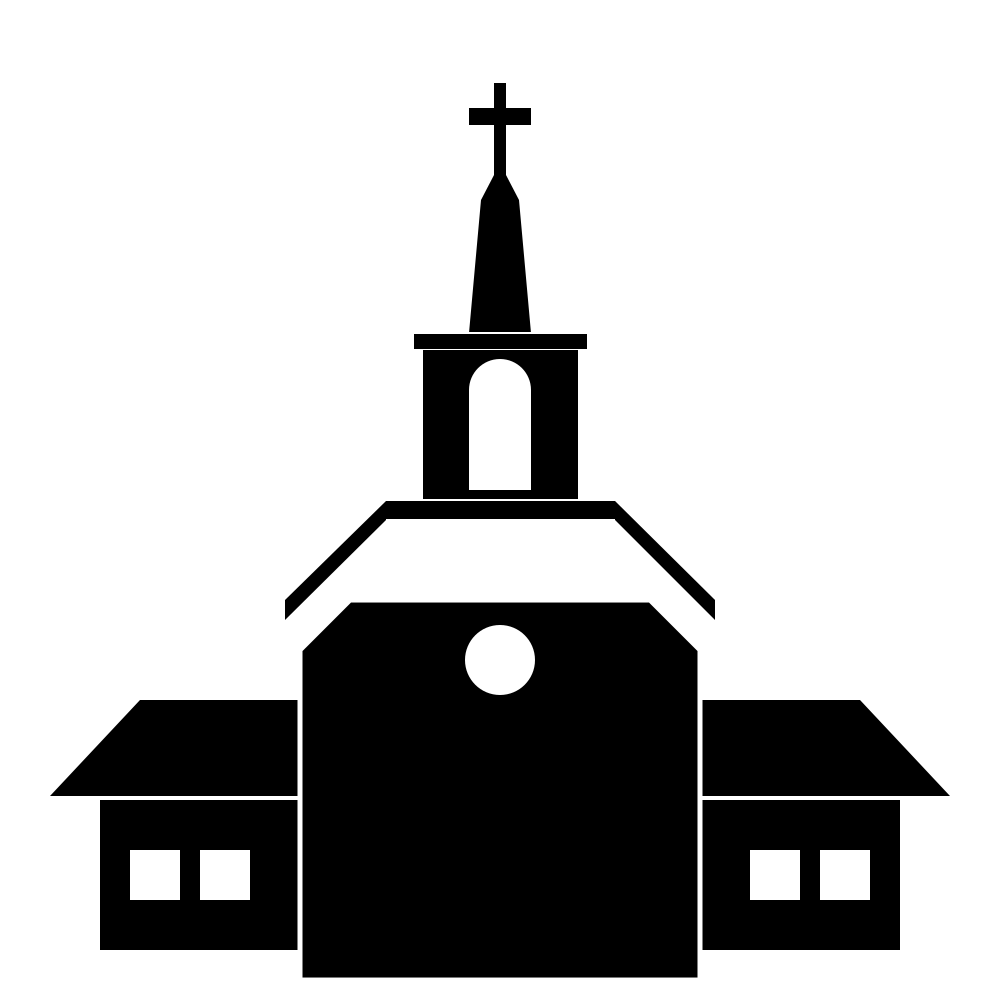
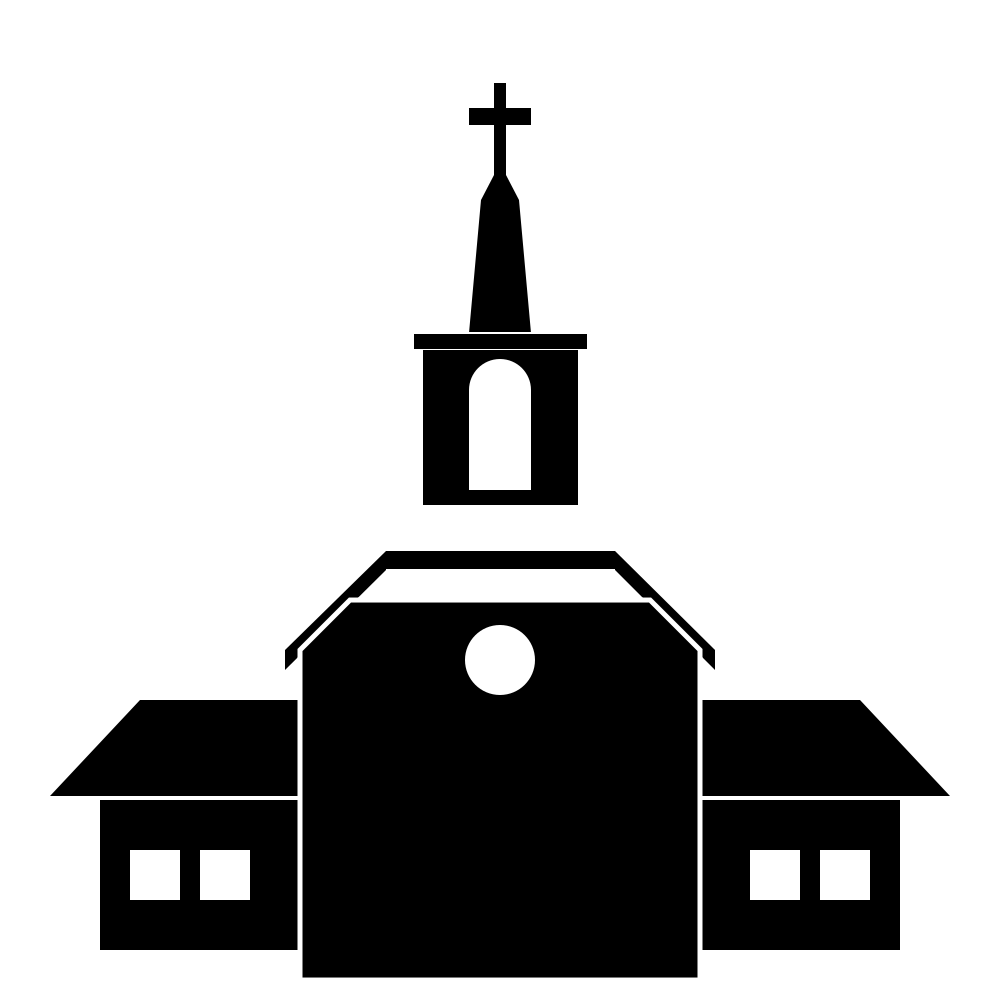
roof

Changed region(s): [[0.279, 0.496, 0.713, 0.682]]

diff --git a/charpel.py b/charpel.py
@@ -44,25 +44,25 @@ ctx.rectangle(469,390,62,100)
 ctx.fill()
 
 # Chapel Roof
-ctx.rectangle(385, 500, 231, 20)
+ctx.rectangle(385, 550, 231, 20)
 ctx.set_source_rgb(0, 0, 0)
 ctx.fill_preserve()
 ctx.set_source_rgb(1, 1, 1)
 ctx.stroke()
 
 # Left Roof Section
-ctx.move_to(386, 501)
-ctx.line_to(285, 600)
-ctx.line_to(285, 620)
-ctx.line_to(386, 520)
+ctx.move_to(386, 551)
+ctx.line_to(285, 650)
+ctx.line_to(285, 670)
+ctx.line_to(386, 570)
 ctx.set_source_rgb(0, 0, 0)
 ctx.fill()
 
 # Right Roof Section
-ctx.move_to(615, 501)
-ctx.line_to(715, 600)
-ctx.line_to(715, 620)
-ctx.line_to(615, 520)
+ctx.move_to(615, 551)
+ctx.line_to(715, 650)
+ctx.line_to(715, 670)
+ctx.line_to(615, 570)
 ctx.set_source_rgb(0, 0, 0)
 ctx.fill()
 
